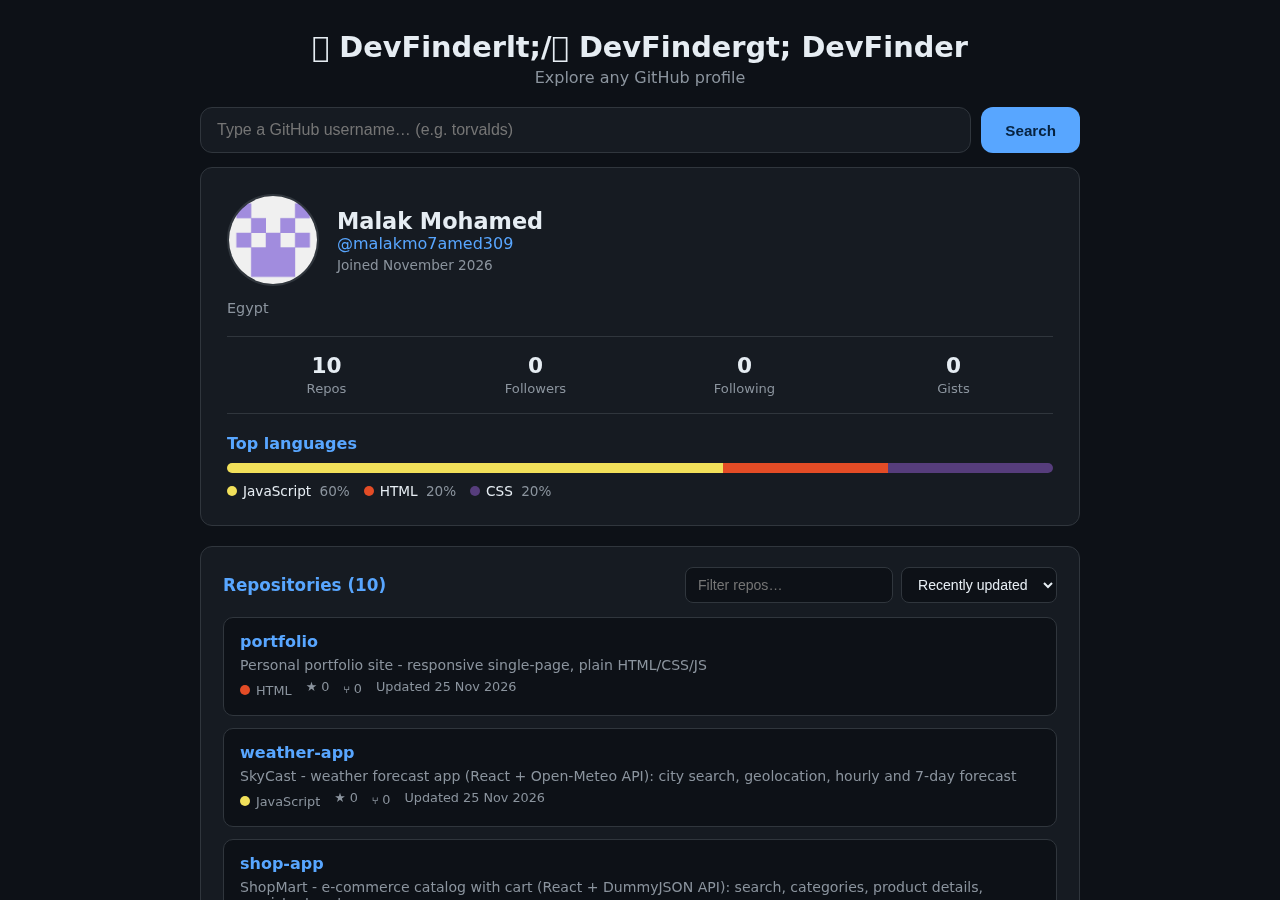
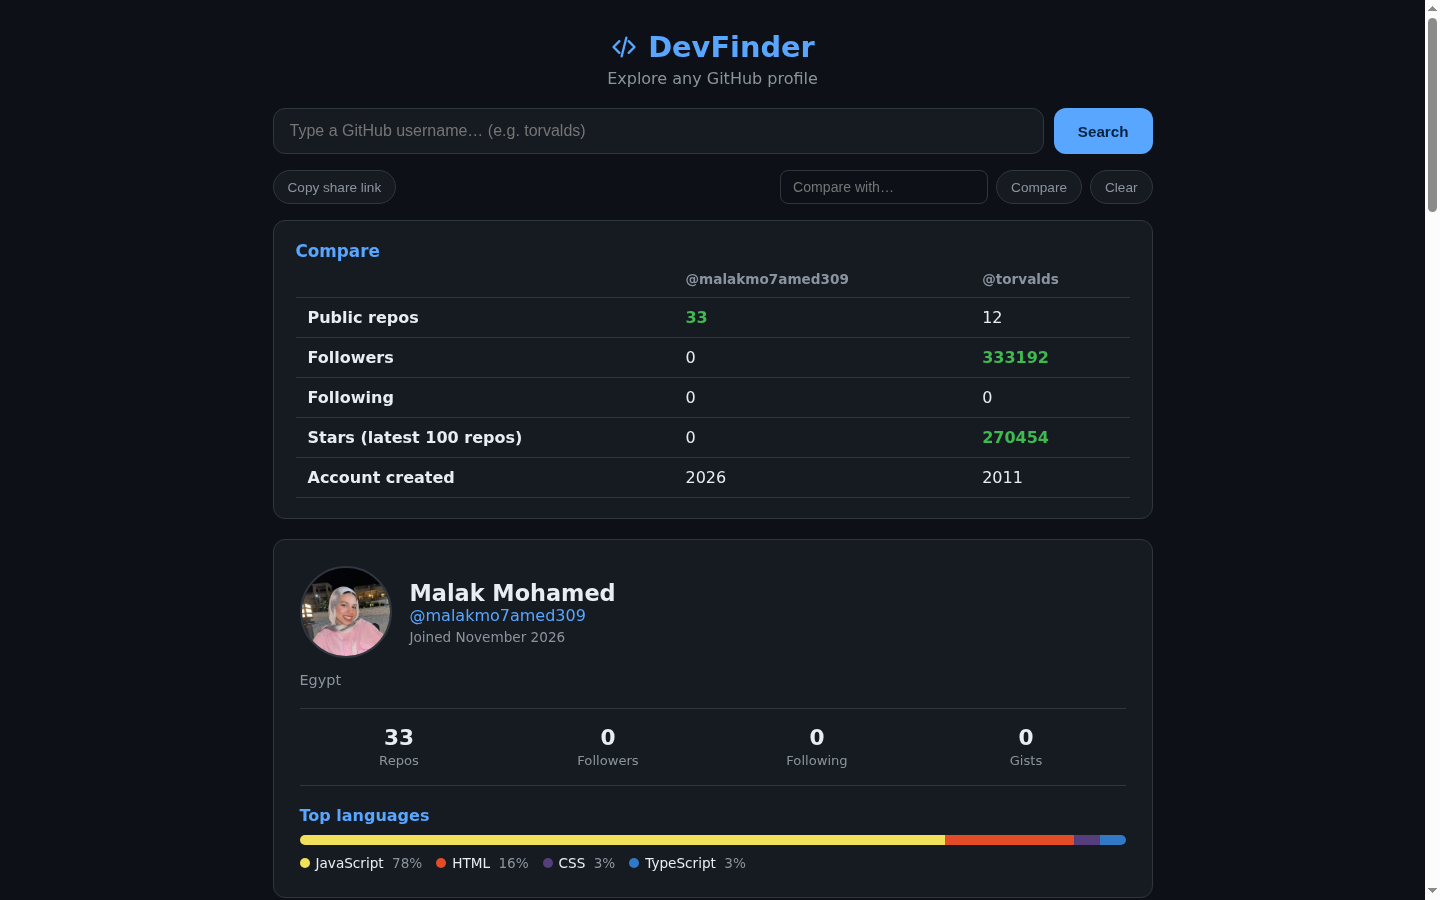
DevFinder 1.1: compare profiles, share links, language filter, clone URL copy, header fix

diff --git a/src/App.jsx b/src/App.jsx
@@ -1,12 +1,15 @@
 import { useCallback, useEffect, useRef, useState } from 'react'
 import { friendlyError, getRepos, getUser } from './api'
 import ProfileCard from './components/ProfileCard'
+import Compare from './components/Compare'
 import RepoList from './components/RepoList'
 import Spinner from './components/Spinner'
 import ErrorBox from './components/ErrorBox'
 
 const HISTORY_KEY = 'github-explorer-history'
 const DEFAULT_USER = 'malakmo7amed309'
+const initialUser = () => new URLSearchParams(window.location.search).get('u') || DEFAULT_USER
+const initialCompare = () => new URLSearchParams(window.location.search).get('vs') || ''
 
 function loadHistory() {
   try {
@@ -18,12 +21,15 @@ function loadHistory() {
 
 export default function App() {
   const [input, setInput] = useState('')
-  const [username, setUsername] = useState(DEFAULT_USER)
+  const [username, setUsername] = useState(initialUser)
   const [history, setHistory] = useState(loadHistory)
   const [user, setUser] = useState(null)
   const [repos, setRepos] = useState([])
   const [loading, setLoading] = useState(true)
   const [error, setError] = useState('')
+  const [vs, setVs] = useState(initialCompare)
+  const [vsInput, setVsInput] = useState('')
+  const [copied, setCopied] = useState(false)
   const requestId = useRef(0)
 
   const load = useCallback(async (name) => {
@@ -46,6 +52,20 @@ export default function App() {
   }, [])
 
   useEffect(() => {
+    const p = new URLSearchParams()
+    p.set('u', username)
+    if (vs) p.set('vs', vs)
+    window.history.replaceState(null, '', `?${p.toString()}`)
+  }, [username, vs])
+
+  function copyLink() {
+    navigator.clipboard?.writeText(window.location.href).then(() => {
+      setCopied(true)
+      setTimeout(() => setCopied(false), 1500)
+    })
+  }
+
+  useEffect(() => {
     load(username)
   }, [username, load])
 
@@ -66,7 +86,7 @@ export default function App() {
     <div className="app">
       <header className="topbar container">
         <h1 className="brand">
-          <span aria-hidden="true"><span aria-hidden="true">🐙</span> DevFinderlt;/<span aria-hidden="true">🐙</span> DevFindergt;</span> DevFinder
+          <svg viewBox="0 0 24 24" width="28" height="28" aria-hidden="true"><path d="M8 7l-5 5 5 5M16 7l5 5-5 5M14 4l-4 16" fill="none" stroke="currentColor" strokeWidth="2" strokeLinecap="round" strokeLinejoin="round"/></svg> DevFinder
         </h1>
         <p className="tagline">Explore any GitHub profile</p>
       </header>
@@ -100,6 +120,15 @@ export default function App() {
 
         {user && !loading && !error && (
           <>
+            <div className="share-row">
+              <button className="chip" onClick={copyLink}>{copied ? 'Link copied' : 'Copy share link'}</button>
+              <form className="vs-form" onSubmit={(e) => { e.preventDefault(); if (vsInput.trim()) { setVs(vsInput.trim()); setVsInput('') } }}>
+                <input className="repo-filter" placeholder="Compare with…" value={vsInput} onChange={(e) => setVsInput(e.target.value)} aria-label="Compare with username" />
+                <button className="chip" type="submit">Compare</button>
+                {vs && <button className="chip" type="button" onClick={() => setVs('')}>Clear</button>}
+              </form>
+            </div>
+            {vs && <Compare a={user} aRepos={repos} b={vs} />}
             <ProfileCard user={user} repos={repos} />
             <RepoList repos={repos} />
           </>

diff --git a/src/components/RepoList.jsx b/src/components/RepoList.jsx
@@ -11,12 +11,16 @@ const SORTS = [
 export default function RepoList({ repos }) {
   const [sort, setSort] = useState('pushed')
   const [filter, setFilter] = useState('')
+  const [lang, setLang] = useState('')
+  const [copied, setCopied] = useState(0)
+  const langs = useMemo(() => [...new Set(repos.map((r) => r.language).filter(Boolean))].sort(), [repos])
 
   const visible = useMemo(() => {
     const q = filter.trim().toLowerCase()
+    const base = lang ? repos.filter((r) => r.language === lang) : repos
     const filtered = q
-      ? repos.filter((r) => r.name.toLowerCase().includes(q) || (r.description || '').toLowerCase().includes(q))
-      : [...repos]
+      ? base.filter((r) => r.name.toLowerCase().includes(q) || (r.description || '').toLowerCase().includes(q))
+      : [...base]
     const by = {
       pushed: (a, b) => new Date(b.pushed_at) - new Date(a.pushed_at),
       stars: (a, b) => b.stargazers_count - a.stargazers_count,
@@ -24,7 +28,7 @@ export default function RepoList({ repos }) {
       name: (a, b) => a.name.localeCompare(b.name),
     }
     return filtered.sort(by[sort])
-  }, [repos, sort, filter])
+  }, [repos, sort, filter, lang])
 
   return (
     <section className="panel">
@@ -38,6 +42,10 @@ export default function RepoList({ repos }) {
             onChange={(e) => setFilter(e.target.value)}
             aria-label="Filter repositories"
           />
+          <select className="repo-sort" value={lang} onChange={(e) => setLang(e.target.value)} aria-label="Filter by language">
+            <option value="">All languages</option>
+            {langs.map((l) => <option key={l} value={l}>{l}</option>)}
+          </select>
           <select className="repo-sort" value={sort} onChange={(e) => setSort(e.target.value)} aria-label="Sort repositories">
             {SORTS.map(([value, label]) => (
               <option key={value} value={value}>{label}</option>
@@ -65,6 +73,9 @@ export default function RepoList({ repos }) {
               )}
               <span>★ {r.stargazers_count}</span>
               <span>⑂ {r.forks_count}</span>
+              <button className="chip" onClick={() => { navigator.clipboard?.writeText(r.clone_url); setCopied(r.id); setTimeout(() => setCopied(0), 1500) }}>
+                {copied === r.id ? 'Copied' : 'Copy clone URL'}
+              </button>
               <span>Updated {new Date(r.pushed_at).toLocaleDateString('en-GB', { day: 'numeric', month: 'short', year: 'numeric' })}</span>
             </p>
           </li>

diff --git a/src/components/Compare.jsx b/src/components/Compare.jsx
@@ -1,0 +1,49 @@
+import { useEffect, useState } from 'react'
+import { friendlyError, getRepos, getUser } from '../api'
+
+function stars(repos) {
+  return repos.reduce((n, r) => n + r.stargazers_count, 0)
+}
+
+export default function Compare({ a, aRepos, b }) {
+  const [other, setOther] = useState(null)
+  const [error, setError] = useState('')
+
+  useEffect(() => {
+    let off = false
+    Promise.all([getUser(b), getRepos(b)])
+      .then(([u, r]) => { if (!off) { setOther({ user: u, repos: r }); setError('') } })
+      .catch((e) => { if (!off) { setOther(null); setError(friendlyError(e, b)) } })
+    return () => { off = true }
+  }, [b])
+
+  if (error) return <p className="empty" role="alert">{error}</p>
+  if (!other) return <p className="empty">Loading @{b}...</p>
+
+  const rows = [
+    ['Public repos', a.public_repos, other.user.public_repos],
+    ['Followers', a.followers, other.user.followers],
+    ['Following', a.following, other.user.following],
+    ['Stars (latest 100 repos)', stars(aRepos), stars(other.repos)],
+    ['Account created', new Date(a.created_at).getFullYear(), new Date(other.user.created_at).getFullYear(), true],
+  ]
+  return (
+    <section className="panel compare">
+      <h3 className="panel-title">Compare</h3>
+      <table>
+        <thead>
+          <tr><th></th><th>@{a.login}</th><th>@{other.user.login}</th></tr>
+        </thead>
+        <tbody>
+          {rows.map(([label, x, y, plain]) => (
+            <tr key={label}>
+              <th scope="row">{label}</th>
+              <td className={!plain && x > y ? 'win' : ''}>{x}</td>
+              <td className={!plain && y > x ? 'win' : ''}>{y}</td>
+            </tr>
+          ))}
+        </tbody>
+      </table>
+    </section>
+  )
+}

diff --git a/src/index.css b/src/index.css
@@ -181,3 +181,13 @@ a:hover { text-decoration: underline; }
   .repo-toolbar { flex-direction: column; align-items: stretch; }
   .repo-controls { flex-direction: column; }
 }
+
+/* v2 */
+.brand { display: inline-flex; align-items: center; gap: 10px; color: var(--accent); }
+.share-row { display: flex; flex-wrap: wrap; gap: 12px; justify-content: space-between; margin: 16px 0; }
+.vs-form { display: flex; gap: 8px; flex-wrap: wrap; }
+.compare table { width: 100%; border-collapse: collapse; }
+.compare th, .compare td { padding: 10px 12px; border-bottom: 1px solid var(--border); text-align: left; }
+.compare td.win { color: #3fb950; font-weight: 700; }
+.compare thead th { color: var(--muted); font-size: .85rem; }
+.repo-meta .chip { padding: 2px 10px; font-size: .78rem; cursor: pointer; }

diff --git a/README.md b/README.md
@@ -9,6 +9,10 @@ no API key needed.
 
 ## Features
 
+- Compare two profiles side by side (repos, followers, stars, join year) with the leader highlighted
+- Shareable links: the URL keeps the user and the compared user (`?u=...&vs=...`) plus a copy-link button
+- Filter repos by language, copy a repo's clone URL
+
 - Look up any public GitHub user by username
 - Profile card: avatar, name, bio, location, company, website and join date
 - Stats: public repos, followers, following and gists
